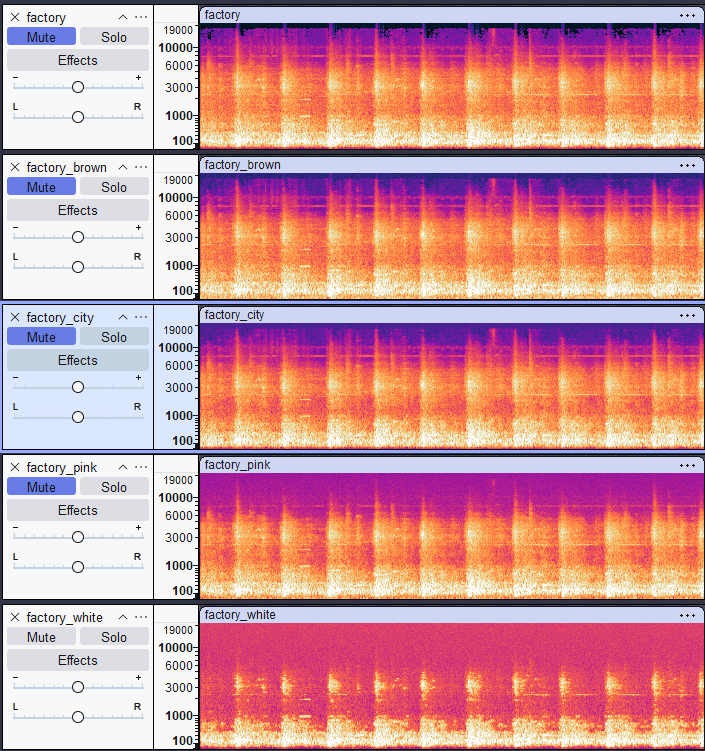
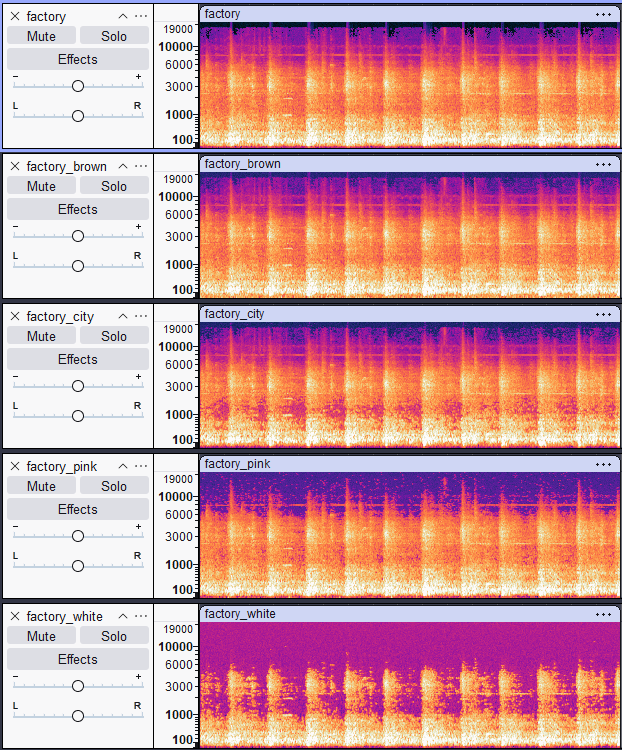
Prvi deo - 3 zad

diff --git a/prvi_deo/domaci/3/music/music.md b/prvi_deo/domaci/3/music/music.md
@@ -1,7 +1,7 @@
 ## Vremenski domen
 
-Izgovori logotoma su jasno vidljivi kod svih signala, međutim kod belog i gradskog šuma ima dosta manje razlike između amplitude signala tokom tišine i tokom izgovaranja. Na zvuku su izgovaranja jasna i kod ovih tipova šuma.
-![Vremenski domen](logatomi_time.png)
+Kod muzičkog signala nema izraženih perioda tišine, tako da se dodavanje šuma dosta teže primećuje u vremenskom domenu nego kod govora. Ipak, kod belog i gradskog šuma se vidi da su tiši delovi pesme nešto "popunjeniji", dok se kod braon i roze šuma talasni oblik manje razlikuje od originala.
+![Vremenski domen](time.png)
 
 ## Frekventni domen
 
@@ -9,23 +9,23 @@ Izgovori logotoma su jasno vidljivi kod svih signala, međutim kod belog i grads
 
 ### Originalni signal
 
-Kod originalnog signala su izgovori logatome jasno odvojeni periodima tišine. Pored toga možemo primetiti jasno izdvojene slogove kao i razdvojene pojaseve frekvencija tokom izgovora.
+Kod originalnog signala se jasno vide frekvencije nota tokom cele pesme, kao i ritam (udarci bubnja) koji se ističu kao vertikalne linije na spektrogramu.
 
 ### Braon šum
 
-Šum najviše dodaje energiju u niskim frekvencijama, međutim ne u tolikoj meri da se ne mogu prepoznati rasponi frekvencija koji su bili vidljivi kod originalnog signala.
+Šum najviše dodaje energiju u niskim frekvencijama, međutim ne u tolikoj meri da znatno utiču na kvalitet zvuka.
 
 ### Gradski šum
 
-Gradski šum dodaje energiju manje pravilno od braon šuma, najviše niskim frekvencijama i donekle srednjim, dok na frekvencije iznad 3kHz slabije utiče. Najveće pojačanje je oko 100Hz, što može uticati na visinu glasa, s obzirom da originalni signal ima visoku energiju u tom opsegu.
+Gradski šum dodaje energiju manje pravilno od braon šuma, najviše niskim frekvencijama i donekle srednjim, dok na frekvencije iznad 3kHz slabije utiče. Za razliku od braon šuma, na spektrogramu se povremeno javljaju i više frekvencije u okviru šuma, na primer između 7. i 8. vertikalne linije.
 
 ### Roze šum
 
-Za razliku od braon šuma, roze šum dodaje energiju ravnomernije u svim nivoima, tako da sada ima dosta šuma i u višim frekvencijama. Kod pojedinih logatoma šum pogoršava razumljivost
+Za razliku od braon šuma, roze šum dodaje energiju ravnomernije u svim nivoima, tako da sada ima dosta šuma i u višim frekvencijama. Zbog toga pojedini tiši detalji u pesmi, kao što su viši tonovi instrumenata, postaju teže uočljivi.
 
 ### Beli šum
 
-Dodaje energiju podjednako svim frekvencijama, zbog čega sada u signalu su prisutne sve frekvencije. Otežava razumljivost kod nekih logatoma koji sadrže zvukove kao što su s, š, č.
+Dodaje energiju podjednako svim frekvencijama, zbog čega sada u signalu su prisutne sve frekvencije podjednako jako. Vertikalne linije su teže uočljive i generalno je teže čuti instrumente u pozadini.
 
 ## Spektri
 
@@ -33,31 +33,31 @@ Dodaje energiju podjednako svim frekvencijama, zbog čega sada u signalu su pris
 
 ![Spektar originalnog signala](spectre_orig.png)
 
-Vidimo da su najuticajnije frekvencije u opsegu 200-1000Hz kao i oko 7kHz, dok frekvencije iznad 7kHz su dosta slabije.
+Vidimo da originalni signal ima najviše energije do oko 500Hz, sa manjim lokalnim vrhom oko 400Hz, nakon čega energija postepeno opada sve do najviših frekvencija.
 
 ### Braon šum
 
 ![Spektar signala sa dodatim braon šumom](spectre_brown.png)
 
-Braon šum dosta pojačava frekvencije ispod 200Hz, što može uticati na visinu tona.
+Braon šum se najviše preklapa sa opsegom u kom originalni signal već ima energiju, pa je razlika u odnosu na spektar originalnog signala jedva primetna.
 
 ### Gradski šum
 
 ![Spektar signala sa gradskim šumom](spectre_city.png)
 
-Gradski šum kao i braon šum dosta utiče na frekvencije ispod 200Hz, i to više nego braon šum. Zbog ovoga je visina tona narušena.
+Gradski šum, kao i braon šum, dosta utiče na frekvencije ispod 200Hz, tako da se spektar u proseku i ovde slabo razlikuje od originalnog signala.
 
 ### Roze šum
 
 ![Spektar signala sa roze šumom](spectre_pink.png)
 
-Roze šum pojačava širi opseg frekvencija nego braon i roze šum, pa vidimo da su jače frekvencije iznad 7kHz nego pre.
+Roze šum pojačava širi opseg frekvencija nego braon i gradski šum, pa se kod viših frekvencija (iznad 3-4kHz) spektar sporije spušta i ostaje na nešto višem nivou nego kod originala.
 
 ### Beli šum
 
 ![Spektar signala sa roze šumom](spectre_white.png)
 
-Očekivano, beli šum pojačava sve frekvencije
+Očekivano, beli šum najviše menja izgled spektra. Umesto prirodnog opadanja ka visokim frekvencijama, spektar iznad 1kHz postaje skoro potpuno ravan, na nivou dosta iznad onoga kod originalnog signala.
 
 ## Uklanjanje šuma
 
@@ -65,10 +65,10 @@ Očekivano, beli šum pojačava sve frekvencije
 
 ![Uklanjanje šuma u Audacityu](audacity_noise_red.png)
 
-Uklanjanjem šuma u Audacity vidimo da je najlakše očistiti braon šum i gradski šum, pri čemu je moguće zadržati jasnoću izgovaranja. Kod roze šuma denoising uspeva da donekle održivo razumljivost, iako ima gubitka u kvalitetu, dok je signal dobijen čišćenjem belog šuma teško razumljiv.
+Uklanjanjem šuma u Audacity vidimo da je najlakše očistiti braon šum i gradski šum, pri čemu kvalitet ostaje relativno dobro očuvan. Kod roze šuma denoising donekle uspeva da očuva melodiju, iako ima gubitka u kvalitetu, dok je signal dobijen čišćenjem belog šuma i dalje dosta zašumljen i teško se prepoznaju detalji pesme.
 
 ### Online alat
 
 ![Uklanjanje šuma online alatom](autoreg.png)
 
-Za uklanjanje šuma je korišćen autoregresivni model. Možemo videti da model zadržava frekvencije izgovora što poboljšava razumljivost ali i dalje ima dosta šuma koji možemo da čujemo.
+Za uklanjanje šuma je korišćen autoregresivni model. Možemo videti da model bolje održava vertikalne linije ali i dalje ima dosta šuma koji možemo da čujemo.

diff --git a/prvi_deo/domaci/3/factory/factory.md b/prvi_deo/domaci/3/factory/factory.md
@@ -67,6 +67,7 @@ Očekivano, beli šum pojačava sve frekvencije
 
 Uklanjanjem šuma u audacity možemo da primetimo da kod braon i gradskog šuma se uklanja deo viših frekvencija i uspešno se otklanja bar deo šuma.
 Kod belog i roze šuma su gori rezultati, zvukovi mašine su prepoznatljivi ali čak i sa više različitih podešavanja nismo u stanju da uklonimo šum.
+S obzirom da zvuk mašine i šum slično zvuče teško je odrediti podešavanja za noise reduction koja bi uklonila šum.
 
 ### Online alat
 